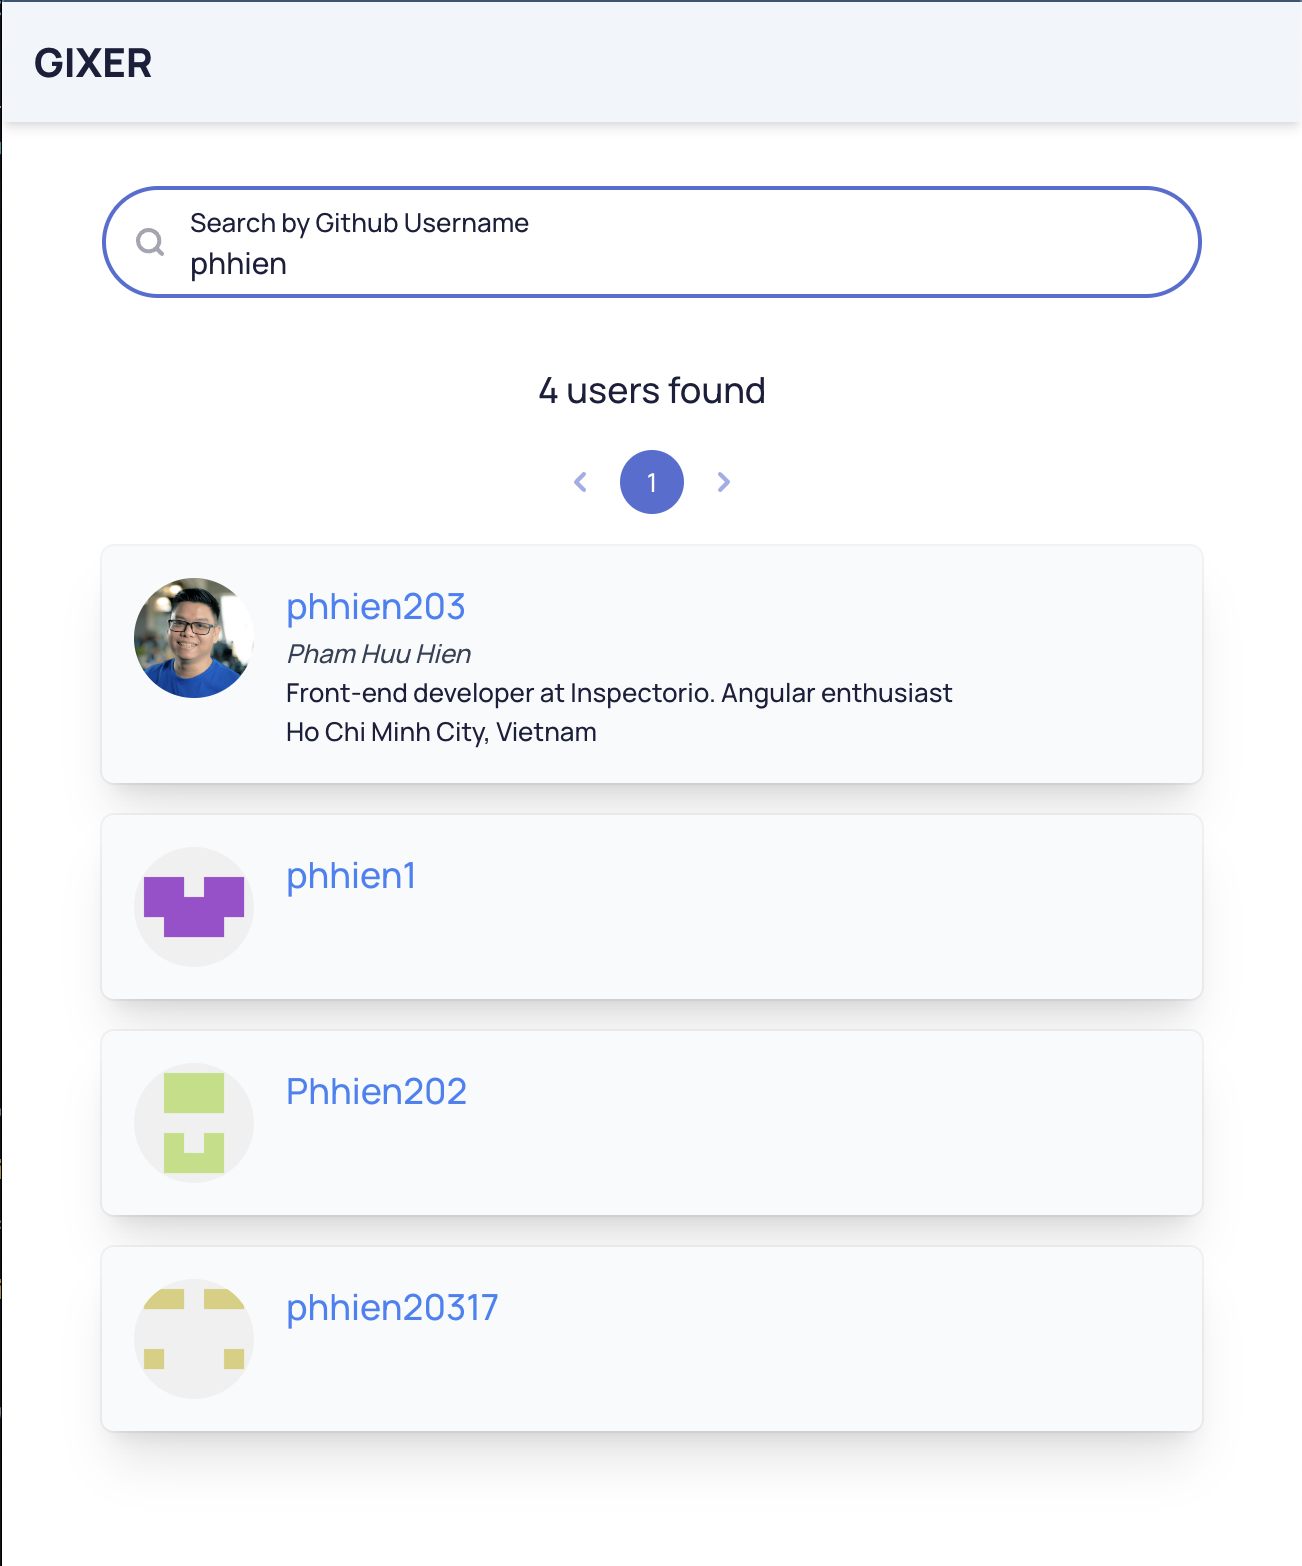
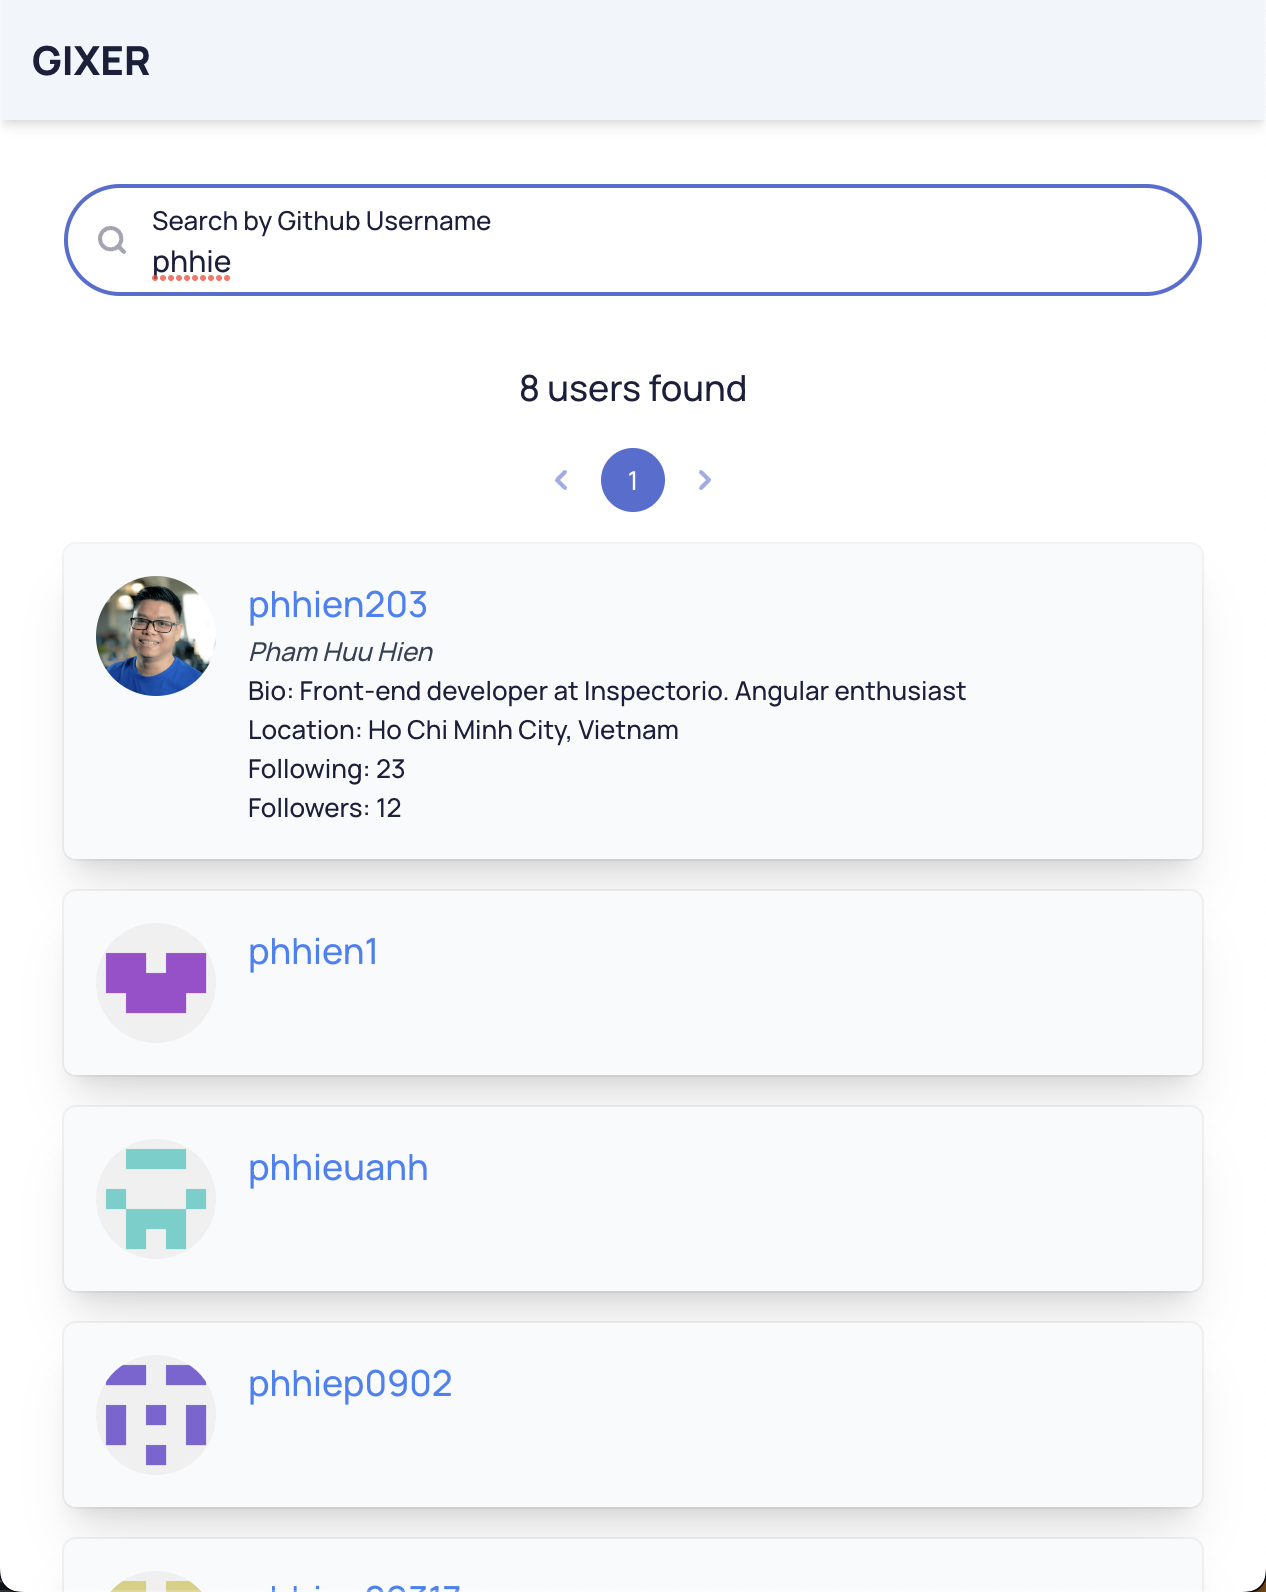
feat: Update search result

diff --git a/libs/users/ui/src/lib/users-list.component.ts b/libs/users/ui/src/lib/users-list.component.ts
@@ -74,8 +74,10 @@ import { TuiPaginationModule } from '@taiga-ui/kit';
             }}</a>
           </h3>
           <p class="text-slate-700 italic">{{ user.name }}</p>
-          <p>{{ user.bio }}</p>
-          <p>{{ user.location }}</p>
+          <p *ngIf="user.bio">Bio: {{ user.bio }}</p>
+          <p *ngIf="user.location">Location: {{ user.location }}</p>
+          <p *ngIf="user.following">Following: {{ user.following }}</p>
+          <p *ngIf="user.followers">Followers: {{ user.followers }}</p>
         </div>
       </article>
     </tui-loader>

diff --git a/libs/users/util/src/lib/models/user.model.ts b/libs/users/util/src/lib/models/user.model.ts
@@ -6,4 +6,7 @@ export interface UserModel {
   readonly bio?: string | null;
   readonly name?: string | null;
   readonly location?: string | null;
+  readonly following?: number | null;
+  readonly followers?: number | null;
+  readonly blog?: string | null;
 }

diff --git a/libs/users/feat-search-users/src/lib/users-feat-search-users.component.ts b/libs/users/feat-search-users/src/lib/users-feat-search-users.component.ts
@@ -47,7 +47,7 @@ import {
     `
       :host {
         display: block;
-        max-width: 550px;
+        max-width: 600px;
         margin: 0 auto;
         --tui-radius-m: 999px;
       }

diff --git a/README.md b/README.md
@@ -4,7 +4,7 @@
 
 Gixer is a Github User Search cloned web app. It provides users the ability to search Github user by username.
 
-<p style="text-align: center;"><img src="/apps/gixer-app/assets/readme/gixer-ui.png" width="450"></p>
+<p style="text-align: center;"><img src="https://gixer.netlify.com/assets/readme/gixer-ui.png" width="450"></p>
 
 **Gixer user interface**
 
@@ -21,21 +21,23 @@ Gixer is built with performance and quality first approach.
 - All components apply the OnPush change detection strategy
 - Images are lazy loaded
 - Pagination applied
+- `async` pipe is used as much as possible
 - Feature module is lazy loaded
 - Pipes are using instead of direct function call in templates
 - Ability for developers to analyze the bundle report, by running `npm run build-stats && npm run bundle-report`
 
-<p style="text-align: center;"><img src="/apps/gixer-app/assets/readme/gixer-bundle-report.png" width="450"></p>
+<p style="text-align: center;"><img src="https://gixer.netlify.com/assets/readme/gixer-bundle-report.png" width="450"></p>
 
 **Gixer bundle report**
 
 ## Features Included
-- Users search Github users by typing the username in search control
+- Users search Github users by typing the username in search control, the input cursor is auto focus on the search box
 - Users can see a list of paginated search results
 - Users can see total number of users found
 - Users can see avatar, login name, full name, bio, location, followings and followers count
 - Users can click on login name on each search result to go to the Github profile of that Github account
 - Users can see No users found message when the search criteria doesn't match any Github users
+- Users can see an error message `Only the first 1000 search results are available` if users query for more than 1000 results
 
 ## Project Structure
 
@@ -55,7 +57,7 @@ The project structure conforms with the philosophy of Nx. The main app is kept a
 ```
 And here is the dependency graph of Gixer app.
 
-<p style="text-align: center;"><img src="/apps/gixer-app/assets/readme/gixer-dependency-graph.png" width="450"></p>
+<p style="text-align: center;"><img src="https://gixer.netlify.com/assets/readme/gixer-dependency-graph.png" width="450"></p>
 
 **Gixer dependency graph**
 
@@ -63,11 +65,11 @@ And here is the dependency graph of Gixer app.
 
 Here are features that can be added in the future
 - Add E2E and unit tests
-- Make the search term in the input control reflected in the URL bar, so that users can bookmark the link and see the previous search results.
+- Make the search term in the input control reflected in the address bar, so that users can bookmark the link and see the previous search results.
 - Add the ability to advanced search for users
-- Add light/dark mode toggler
+- Add light/dark mode switcher
 - Add metadata tags to make the app more SEO friendly.
-- Fully support for accessibility.
+- Fully support for accessibility
 - Apply custom preload strategy for lazy loaded modules
 - Opt-in Nx Cloud
 
